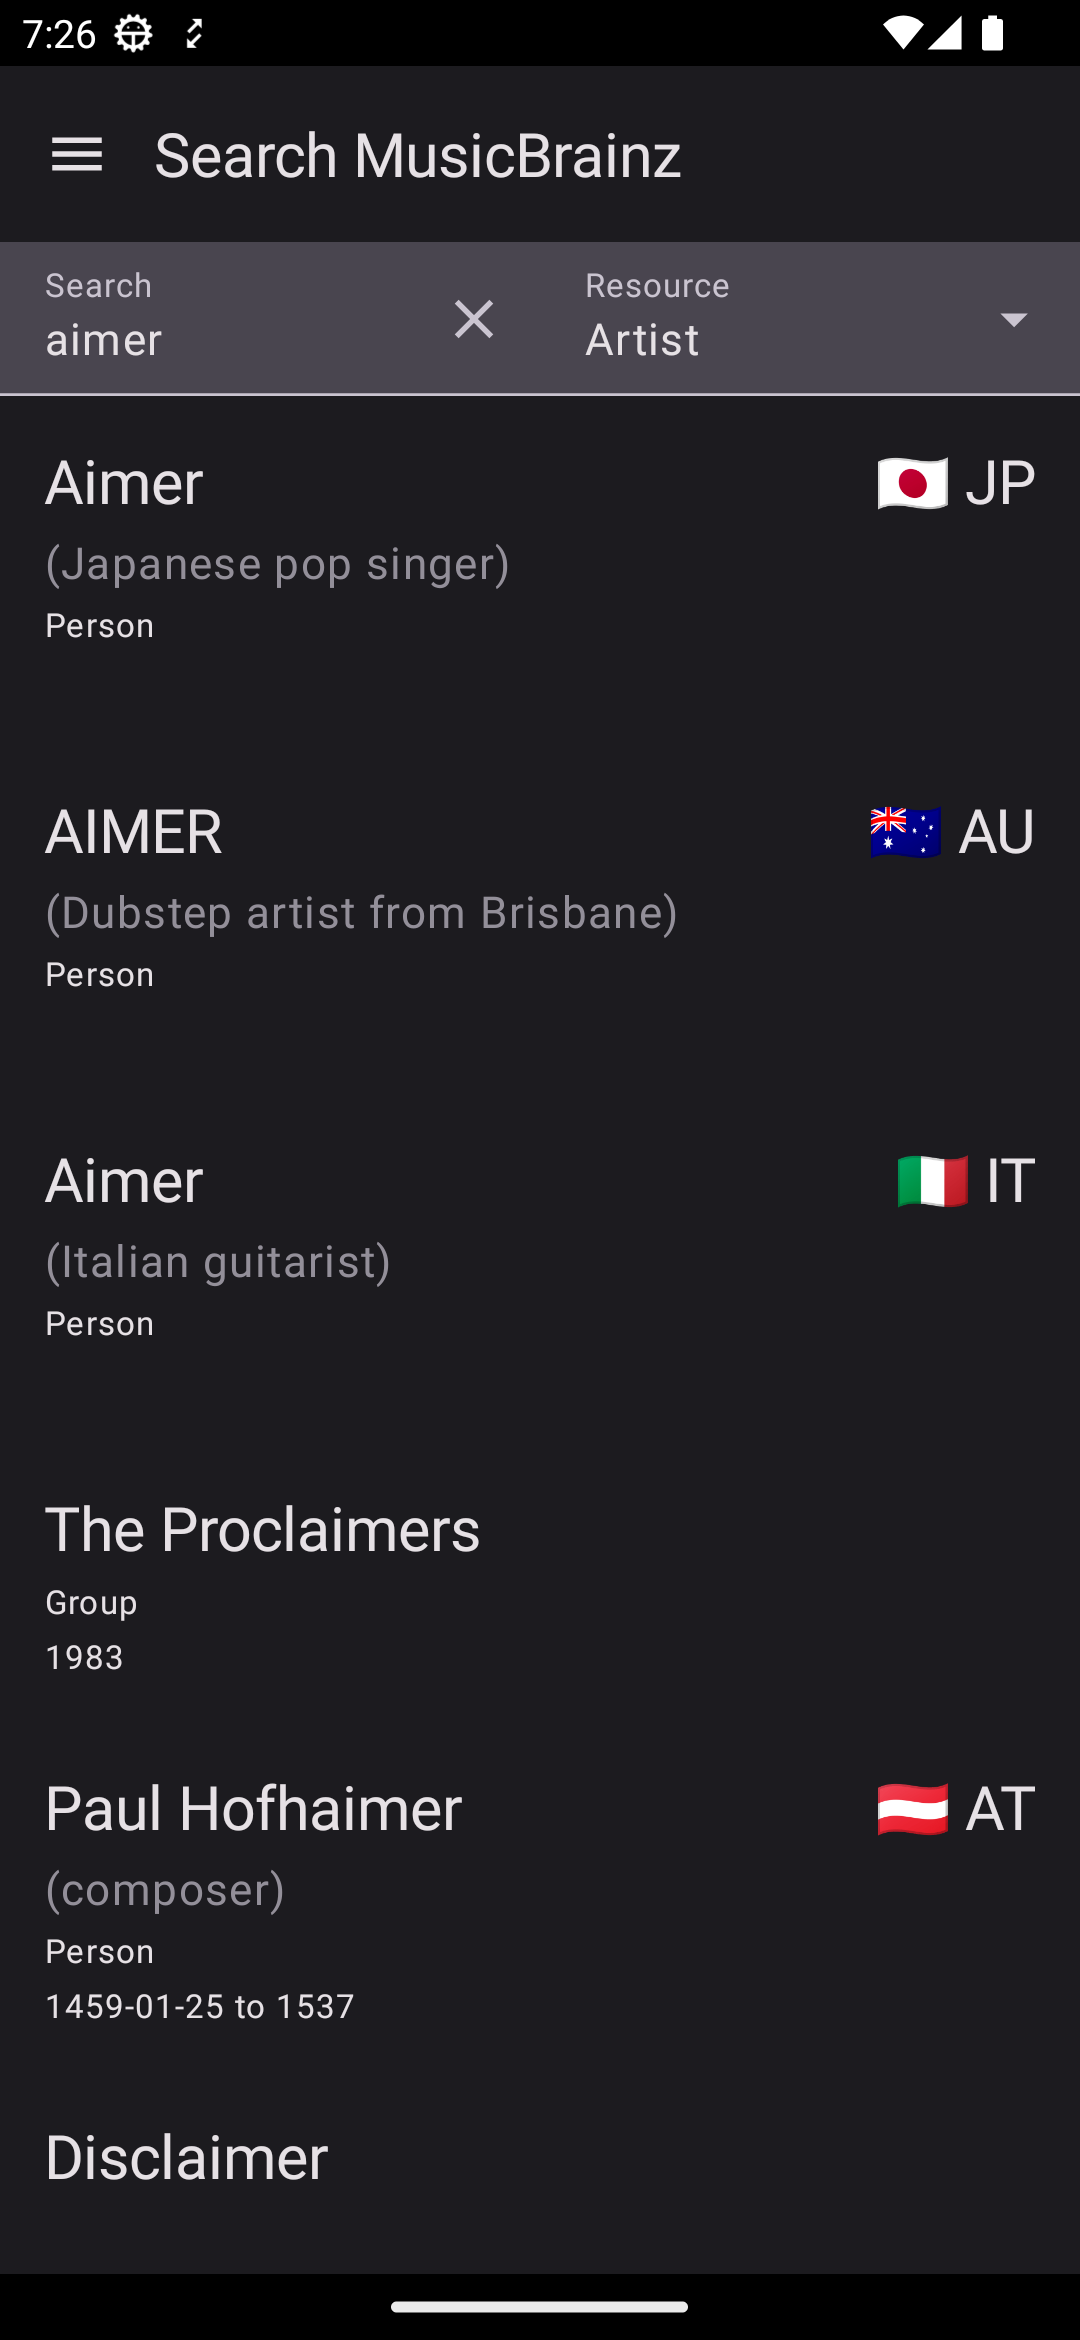
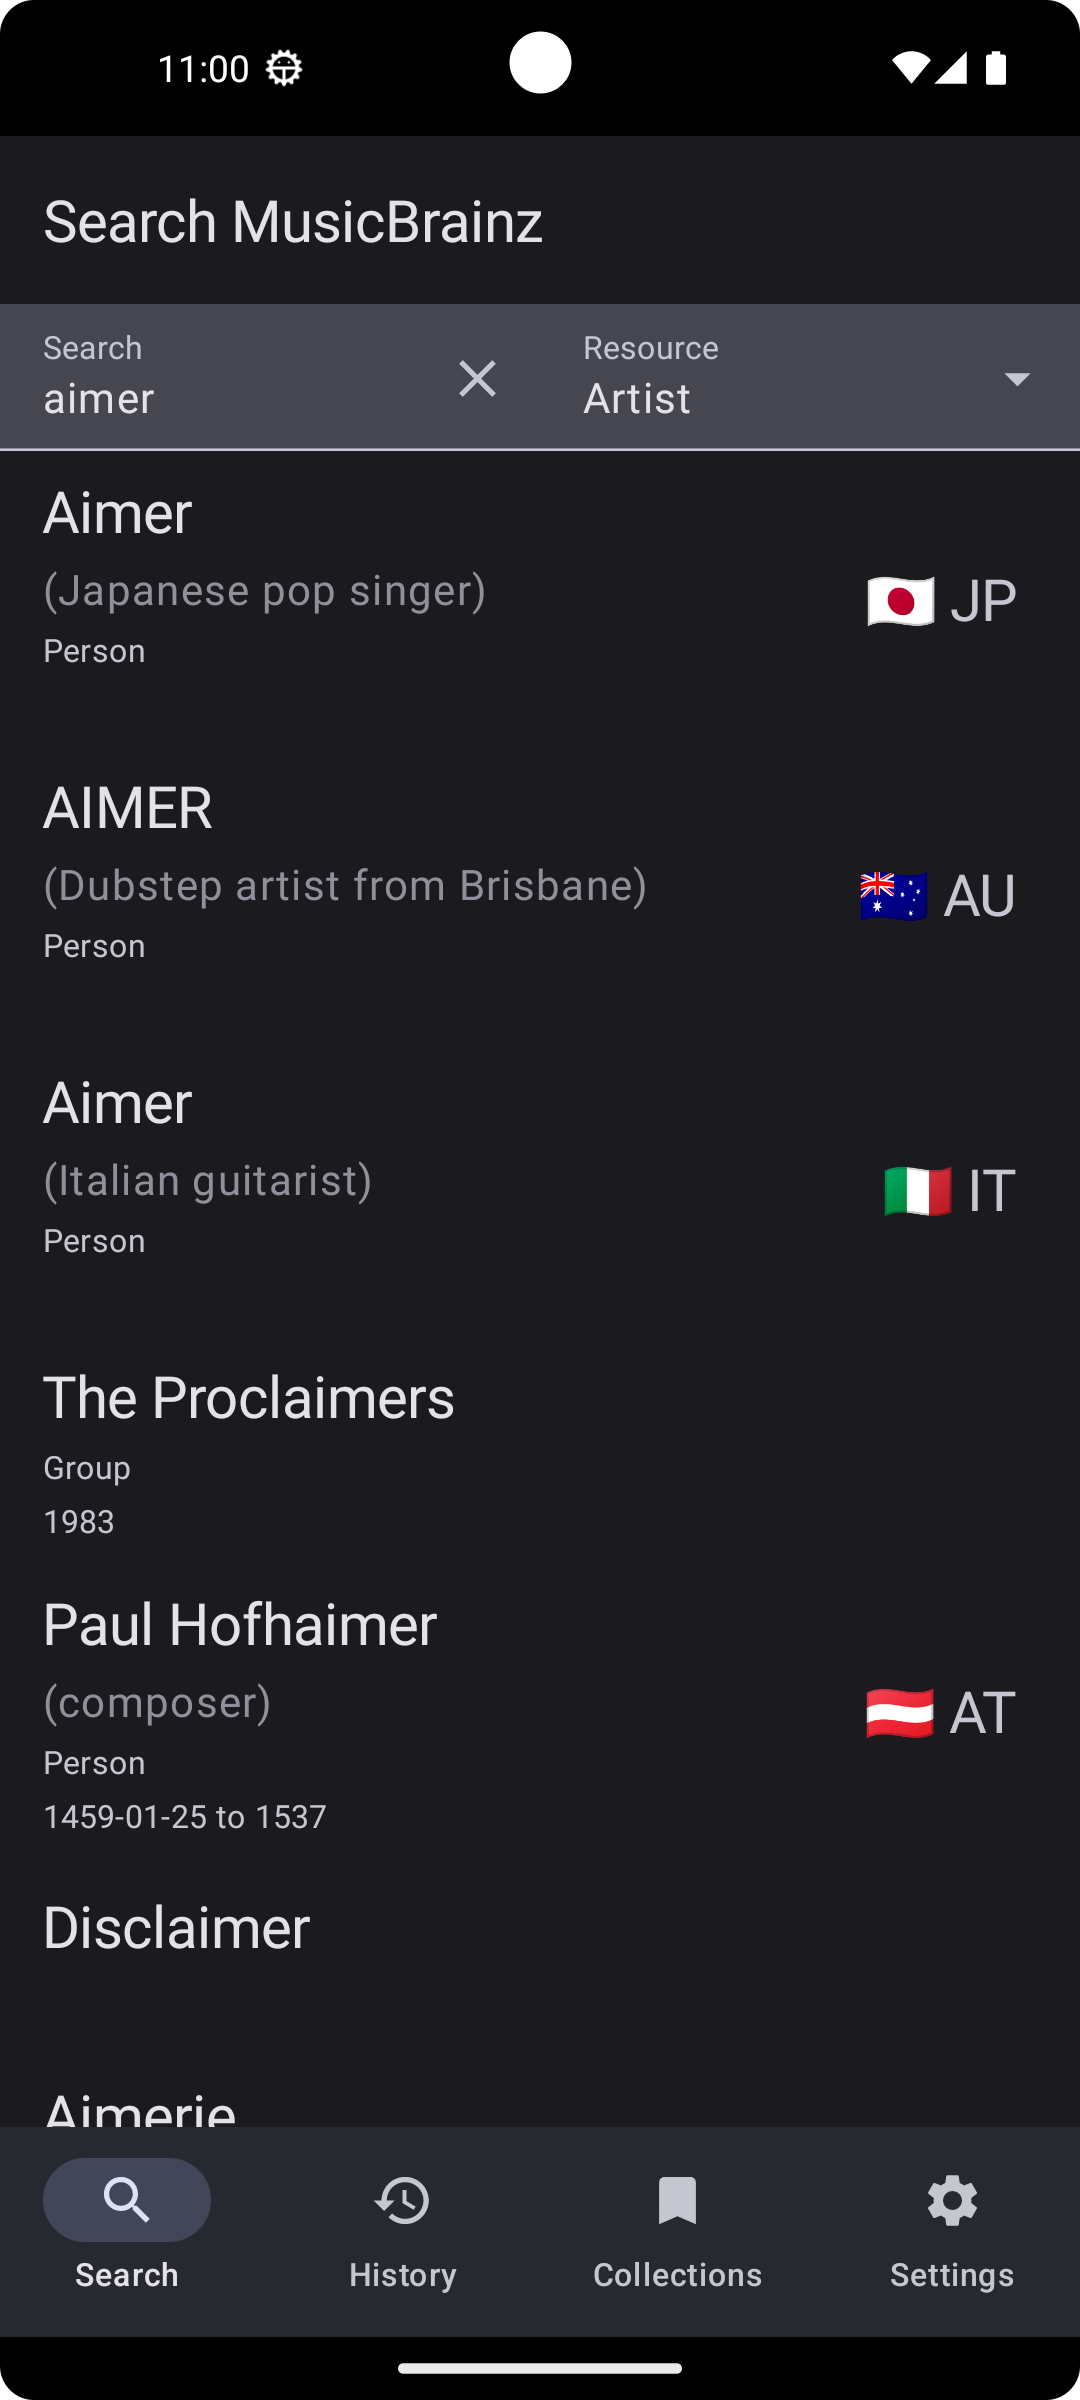
Update screenshots and features to include collections

diff --git a/README.md b/README.md
@@ -1,30 +1,33 @@
 # MusicSearch
 
-An Android app for browsing songs, artists, and anything related to them using [MusicBrainz's API](https://wiki.musicbrainz.org/MusicBrainz_API).
-
+An Android app for browsing songs, artists, and anything related to them
+using [MusicBrainz's API](https://wiki.musicbrainz.org/MusicBrainz_API).
 
 ## Features
 
-- Search: browse MusicBrainz's massive database for any information related to your favorite artist or song
+- Search MusicBrainz's massive database for any information related to your favorite artist or song
 - All data is cached on device after loading each page/tab
 - History: See every page you've visited, and quickly get back to them
 - Filter: Almost every tab allows you to search its content instantaneously
-- [Cover arts](https://coverartarchive.org/)
+- Collections: Save anything to a collection
+- Login using your MusicBrainz account to add to your existing collections
+- Cover arts
 - Dark theme
 - Material You theme
 
-
 ## Screenshots
 
-| Search artist     | Release groups by artist | Release details   | Release tracks    | Artist stats      |
-|-------------------|--------------------------|-------------------|-------------------|-------------------|
-| ![](assets/1.png) | ![](assets/2.png)        | ![](assets/3.png) | ![](assets/4.png) | ![](assets/5.png) |
+| Search artist       | Release groups by artist   | Release details     | Release tracks      |
+|---------------------|----------------------------|---------------------|---------------------|
+| ![](assets/1.png)   | ![](assets/2.png)          | ![](assets/3.png)   | ![](assets/4.png)   | 
 
+| Artist stats      | Lookup history    | Collection of release groups |
+|-------------------|-------------------|------------------------------|
+| ![](assets/5.png) | ![](assets/6.png) | ![](assets/7.png)            |
 
 ## Development
 
 [See here](./docs/README.md) for notes on upcoming features and some development processes.
-
 
 ## Privacy Policy
 

diff --git a/docs/upcoming/collections.md b/docs/upcoming/collections.md
@@ -54,12 +54,12 @@ Search `collectableResources` to find all the entities that can be collected.
   - Otherwise would need to try https://github.com/Tickaroo/tikxml
 - [x] Add to collection
   - PUT /ws/2/collection/f4784850-3844-11e0-9e42-0800200c9a66/releases/455641ea-fff4-49f6-8fb4-49f961d8f1ad;c410a773-c6eb-4bc0-9df8-042fe6645c63?client=example.app-0.4.7
-  - [ ] show an indicator that an entity is already in the collection
+  - [x] show an indicator that an entity is already in the collection
     - this won't be accurate for remote collections before we get its content by clicking into it
-    - nothing reasonable we can do about it, just open an issue to track this
 - [ ] Delete from collection
   - DELETE /ws/2/collection/f4784850-3844-11e0-9e42-0800200c9a66/releases/455641ea-fff4-49f6-8fb4-49f961d8f1ad;?client=example.app-0.4.7
   - You may submit up to ~400 entities in a single request, separated by a semicolon (;)
+  - Use SwipeToDismiss with background
 - [x] Unidirectional sync where MB is source of truth
   - local additions/deletions will be overwritten
   - This will be supported the moment we copy/paste our paging code
